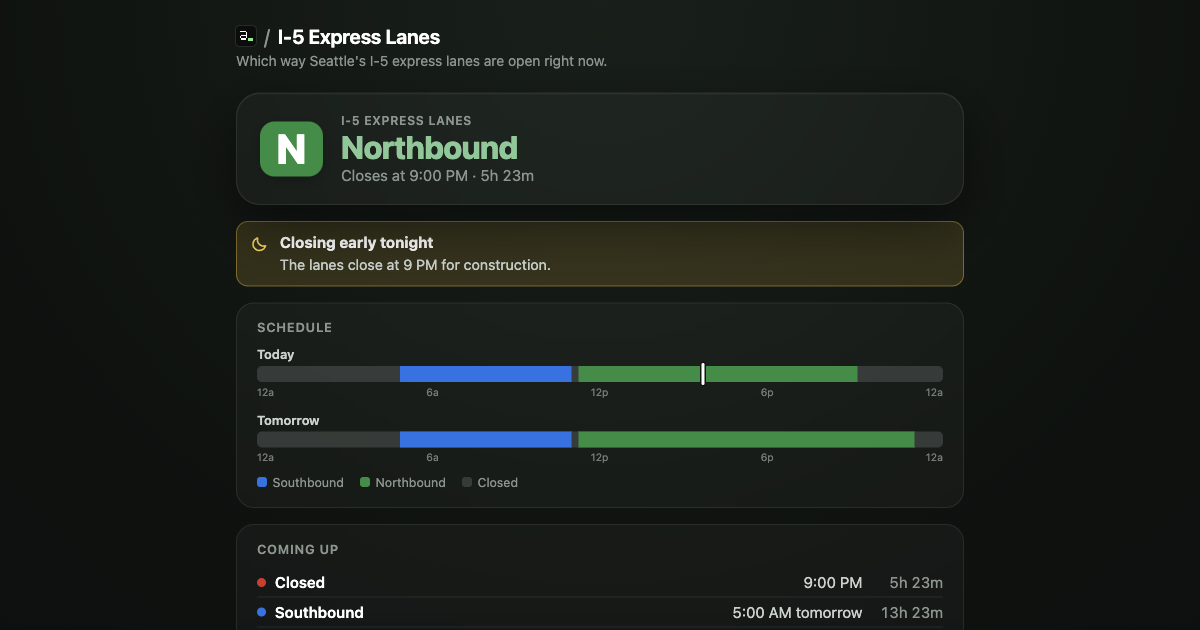
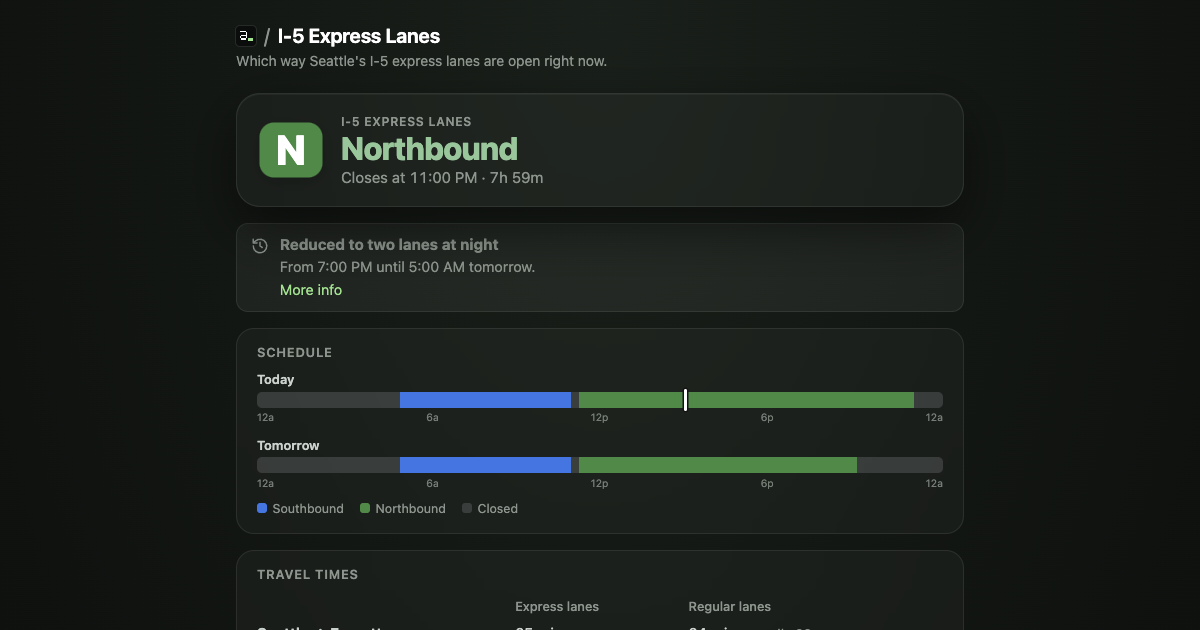
Open the Cameras section from the Traffic cameras link, check cameras and Bluesky in the health check, and refresh the screenshots

diff --git a/public/healthcheck/index.html b/public/healthcheck/index.html
@@ -13,10 +13,46 @@
 <body>
 <h1>I-5 Express Lanes health check</h1>
 <script>
+const HOUR = 3600000;
+
+function loads(url) {
+  return new Promise((resolve) => {
+    const img = new Image();
+    const timer = setTimeout(() => resolve(false), 15000);
+    img.onload = () => { clearTimeout(timer); resolve(img.naturalWidth > 0); };
+    img.onerror = () => { clearTimeout(timer); resolve(false); };
+    img.src = url;
+  });
+}
+
 healthcheck([
   { name: 'Page', url: '../', assets: true, contains: 'I-5 Express Lanes' },
   { name: 'I-5 API', url: 'https://i5.andrewmacheret.com/healthcheck', healthcheck: true },
-  { name: 'README badge', url: 'https://i5.andrewmacheret.com/badge.svg', image: true }
+  { name: 'README badge', url: 'https://i5.andrewmacheret.com/badge.svg', image: true },
+  {
+    // A camera or two being down is normal, so only fail when most pictures don't load
+    name: 'Camera pictures',
+    url: 'https://i5.andrewmacheret.com/status',
+    json: async (status) => {
+      const express = (status.cameras || []).filter((c) => c.express);
+      if (!express.length) throw new Error('no express lane cameras in /status');
+      const picks = [...new Set([0, 1, 2, 3].map((i) => express[Math.floor((i * (express.length - 1)) / 3)]))];
+      const ok = (await Promise.all(picks.map((c) => loads(c.image)))).filter(Boolean).length;
+      if (ok * 2 < picks.length) throw new Error(`only ${ok} of ${picks.length} pictures load`);
+      return `${ok} of ${picks.length} pictures load`;
+    }
+  },
+  {
+    name: 'WSDOT Traffic on Bluesky',
+    url: 'https://public.api.bsky.app/xrpc/app.bsky.feed.getAuthorFeed?actor=traffic.wsdot.wa.gov&limit=1',
+    json: (body) => {
+      const post = body.feed && body.feed[0];
+      if (!post) throw new Error('no posts');
+      const hours = Math.round((Date.now() - Date.parse(post.post.indexedAt)) / HOUR);
+      if (hours > 7 * 24) throw new Error(`last post ${hours} hours ago`);
+      return `last post ${hours} hours ago`;
+    }
+  }
 ]);
 </script>
 </body>

diff --git a/src/web/Cameras.tsx b/src/web/Cameras.tsx
@@ -1,10 +1,18 @@
-import { useState } from 'react';
+import { useEffect, useRef, useState } from 'react';
 import type { Camera } from '../core/models.ts';
 import { Card } from './parts.tsx';
 
 // Pictures come straight from WSDOT's image server. Nothing loads until the section is opened.
 
 const MAP = 'https://wsdot.com/Travel/Real-time/Map/';
+export const CAMERAS_ID = 'cameras';
+
+/** Opens the section, for links to #cameras. The browser then scrolls to it. */
+export function openCameras() {
+  const details = document.getElementById(CAMERAS_ID);
+  if (details instanceof HTMLDetailsElement) details.open = true;
+}
+
 /** WSDOT updates each picture about this often */
 const REFRESH_EVERY = 5 * 60_000;
 
@@ -37,12 +45,21 @@ export function CameraGrid({ cameras, now }: { cameras: Camera[]; now: number })
 export default function Cameras({ cameras, now }: { cameras: Camera[]; now: number }) {
   const [open, setOpen] = useState(false);
   const [all, setAll] = useState(false);
-  if (!cameras.length) return null;
+  const details = useRef<HTMLDetailsElement>(null);
+  const hasCameras = cameras.length > 0;
+  // A link to #cameras from another page lands before the cameras load, so open and scroll here
+  useEffect(() => {
+    if (hasCameras && location.hash === `#${CAMERAS_ID}` && details.current) {
+      details.current.open = true;
+      details.current.scrollIntoView();
+    }
+  }, [hasCameras]);
+  if (!hasCameras) return null;
   const express = cameras.filter((c) => c.express);
   const shown = all || !express.length ? cameras : express;
   return (
     <Card title="Cameras" className="cameras">
-      <details onToggle={(e) => setOpen(e.currentTarget.open)}>
+      <details id={CAMERAS_ID} ref={details} onToggle={(e) => setOpen(e.currentTarget.open)}>
         <summary>
           {`${open ? 'Hide' : 'Show'} ${express.length ? `${express.length} express lane cameras` : `${cameras.length} cameras`}, downtown to Northgate`}
         </summary>

diff --git a/test/page.test.tsx b/test/page.test.tsx
@@ -103,6 +103,16 @@ describe('the page', () => {
     expect(text).toContain("Expected northbound, but don't rely on it");
     expect(text).toContain('No word yet on Thanksgiving');
     expect(text).toContain('Check a live source before you drive: WSDOT Traffic on Bluesky · Traffic cameras · WSDOT page');
+    expect(html).toContain('>Traffic cameras</a>');
+    expect(html).toContain('href="https://wsdot.com/Travel/Real-time/Map/?layers=');
+  });
+
+  it('sends "Traffic cameras" to the Cameras section when the server sent cameras', () => {
+    const f = fixture('holiday');
+    const cameras = fixture('confident').status?.cameras;
+    const { html } = render(f.status && { ...f.status, cameras }, f.at);
+    expect(html).toContain('<a href="#cameras">Traffic cameras</a>');
+    expect(html).toContain('<details id="cameras">');
   });
 
   it('says it is checking while the models read a new page', () => {
@@ -176,7 +186,7 @@ describe('cameras', () => {
   it('start closed, offering the express lane ones, so no pictures load', () => {
     const { html, text } = page('confident');
     expect(text).toContain('Cameras Show 2 express lane cameras, downtown to Northgate');
-    expect(html).toContain('<details>');
+    expect(html).toContain('<details id="cameras">');
     expect(html).not.toContain('images.wsdot.wa.gov');
   });
 

diff --git a/src/web/Page.tsx b/src/web/Page.tsx
@@ -5,7 +5,7 @@ import { doubtsBetween } from '../core/timeline.ts';
 import { type Snapshot, verb } from '../core/snapshot.ts';
 import { LIVE_MAX_AGE } from '../core/trust.ts';
 import BadgeMaker from './BadgeMaker.tsx';
-import Cameras from './Cameras.tsx';
+import Cameras, { CAMERAS_ID, openCameras } from './Cameras.tsx';
 import { Callout, Card, Dot, Icon, ScheduleRows, SourceLink, StatusIcon, Timeline } from './parts.tsx';
 
 // Everything on the page, drawn from the server's timeline. No data loading here, so tests can
@@ -126,7 +126,13 @@ function StatusCard({ snap, loading }: { snap: Snapshot; loading: boolean }) {
           ))}
           <p className="live-sources">
             <strong>Check a live source before you drive:</strong>{' '}
-            <a href={SOURCES.wsdotTraffic}>WSDOT Traffic on Bluesky</a> · <a href={SOURCES.travelMap}>Traffic cameras</a> ·{' '}
+            <a href={SOURCES.wsdotTraffic}>WSDOT Traffic on Bluesky</a> · {snap.status.cameras?.length ? (
+              <a href={`#${CAMERAS_ID}`} onClick={openCameras}>
+                Traffic cameras
+              </a>
+            ) : (
+              <a href={SOURCES.travelMap}>Traffic cameras</a>
+            )} ·{' '}
             <a href={SOURCES.expressLanes}>WSDOT page</a>
           </p>
         </div>

diff --git a/src/web/App.tsx b/src/web/App.tsx
@@ -13,9 +13,12 @@ const clock = () => Date.now() + offset;
 
 const EMPTY: ServerStatus = { published: null, fetchedAt: null, checkedAt: null, error: null, live: null };
 
-/** With ?now=, move the server's read times along with the clock so the data doesn't look old */
+/**
+ * With ?now=, move the server's read times along with the clock so the data doesn't look old.
+ * A local API started with --at already runs on that clock, so its data is left alone.
+ */
 const shifted = (s: ServerStatus): ServerStatus =>
-  offset === 0
+  offset === 0 || (s.checkedAt !== null && Math.abs(s.checkedAt - clock()) < 60 * 60_000)
     ? s
     : {
         ...s,

diff --git a/README.md b/README.md
@@ -12,14 +12,14 @@ Live at [andrewmacheret.com/projects/i5](https://andrewmacheret.com/projects/i5/
 
 It's the web version of [i5-macos-menubar](https://github.com/andrewmacheret/i5-macos-menubar) and [i5-android](https://github.com/andrewmacheret/i5-android). The schedule comes from [i5-server-lambdas](https://github.com/andrewmacheret/i5-server-lambdas), which reads WSDOT's page and highway alerts with two AI models and works out the timeline. This page only draws it.
 
-![The page showing the lanes northbound, closing early at 9 PM, with timelines for today and tomorrow](public/screenshot.png)
+![The page showing the lanes northbound until 11 PM, a notice that they're reduced to two lanes tonight, and timelines for today and tomorrow](public/screenshot.png)
 
 ## Features
 
 The page has the same sections as the Mac popover and the Android app screen:
 
 - **Status:** green **N** for northbound, blue **S** for southbound, red **✕** for closed, and what happens next, like "Closes at 9:00 PM · 5h 24m". An amber dot on the icon means the lanes switch within 15 minutes.
-- **Can't confirm:** an amber **⚠** replaces the direction whenever the status can't be trusted, with each reason and links to live sources. See [When to trust it](#when-to-trust-it).
+- **Can't confirm:** an amber **⚠** replaces the direction whenever the status can't be trusted, with each reason and links to live sources. Its Traffic cameras link opens the Cameras section. See [When to trust it](#when-to-trust-it).
 - **Notices:** closures and other notices in effect now or later today.
 - **Timelines:** colored bars for today and tomorrow, with a marker for now.
 - **Travel times:** downtown Seattle to Everett and back through the express lanes and on the regular lanes, from WSDOT's sensors, with the regular lanes' usual time.
@@ -28,6 +28,8 @@ The page has the same sections as the Mac popover and the Android app screen:
 - **Planned changes:** weekend closures, early closing dates, and holidays in the next two weeks, with how sure the times are and WSDOT's own words.
 - **Regular schedule and sources:** the weekly schedule as WSDOT posts it, and links to every page and alert the data comes from.
 - **Badge for your site:** builds the Markdown or HTML for the badge below.
+
+![Travel times through the express lanes and the regular lanes, and the Cameras section open on the 16 express lane cameras](docs/travel-times-and-cameras.png)
 
 Times are always Seattle time. If your browser uses another time zone, the page says so.
 
@@ -69,14 +71,14 @@ You need Node.js 24 or later.
 | `npm install` | Install the dependencies |
 | `npm test` | Run the page tests |
 | `npm run typecheck` | Check the TypeScript types |
-| `npm run dev` | Run the page on [localhost:5173](http://localhost:5173), using an API on localhost:8787. Start one with `npm run api` in [i5-server-lambdas](https://github.com/andrewmacheret/i5-server-lambdas). |
+| `npm run dev` | Run the page on [localhost:5173](http://localhost:5173), using an API on localhost:8787. Start one with `npm run api` in [i5-server-lambdas](https://github.com/andrewmacheret/i5-server-lambdas). For screenshots, start it with `-- --at 2026-12-01T15:00-08:00` and open the page with the same `?now=`. |
 | `npm run build` | Build the page into `dist/` |
 
 Add `?api=` to the page's address to use another copy of the API, like `?api=https://i5.andrewmacheret.com` to run the local page against the real one.
 
 ## Health check
 
-Once a day, the Canary workflow (`.github/workflows/canary.yml`) checks the page and its scripts and styles, the README badge, and the API's own health check, which fails if the 15 minute refresh stopped, can't read WSDOT, or no model could read its latest notice. It's started by [andrewmacheret/canary](https://github.com/andrewmacheret/canary).
+Once a day, the Canary workflow (`.github/workflows/canary.yml`) checks the page and its scripts and styles, the README badge, and the API's own health check, which fails if the 15 minute refresh stopped, can't read WSDOT, or no model could read its latest notice. It also loads four express lane camera pictures from WSDOT (half have to load, since single cameras go down now and then), and checks that WSDOT Traffic still posts on Bluesky. WSDOT's map answers every address with its app, even ones that don't exist, so a broken map link can't be told apart from a working one. It's started by [andrewmacheret/canary](https://github.com/andrewmacheret/canary).
 
 ## Deploy
 
